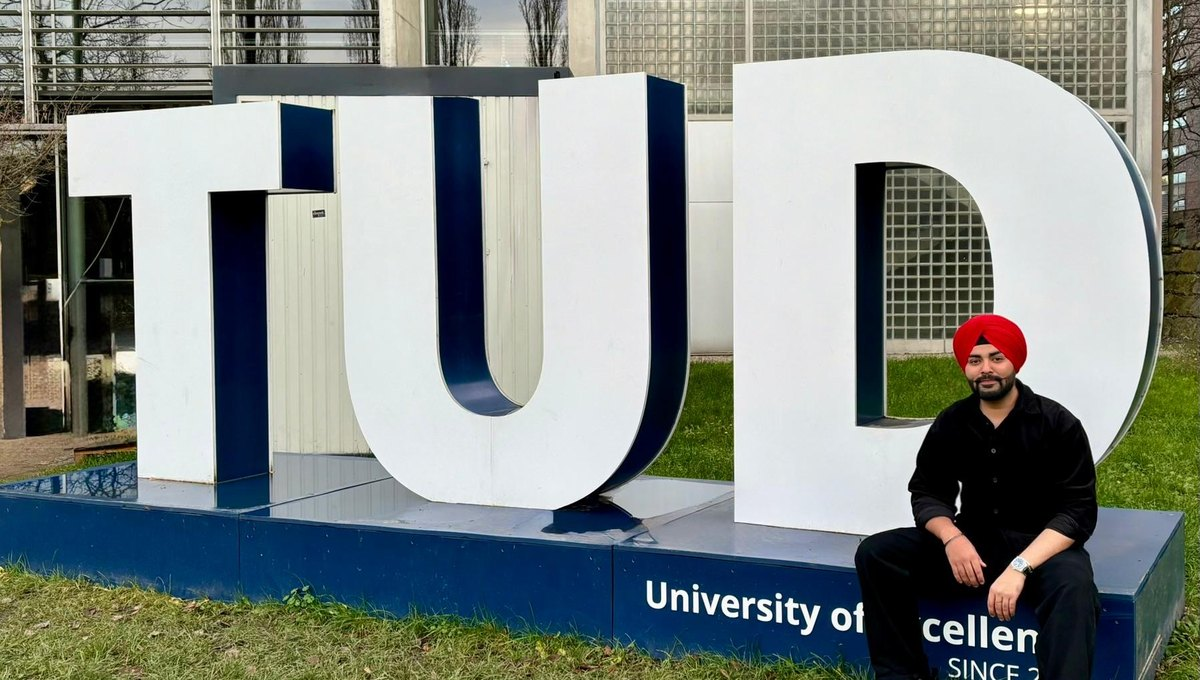
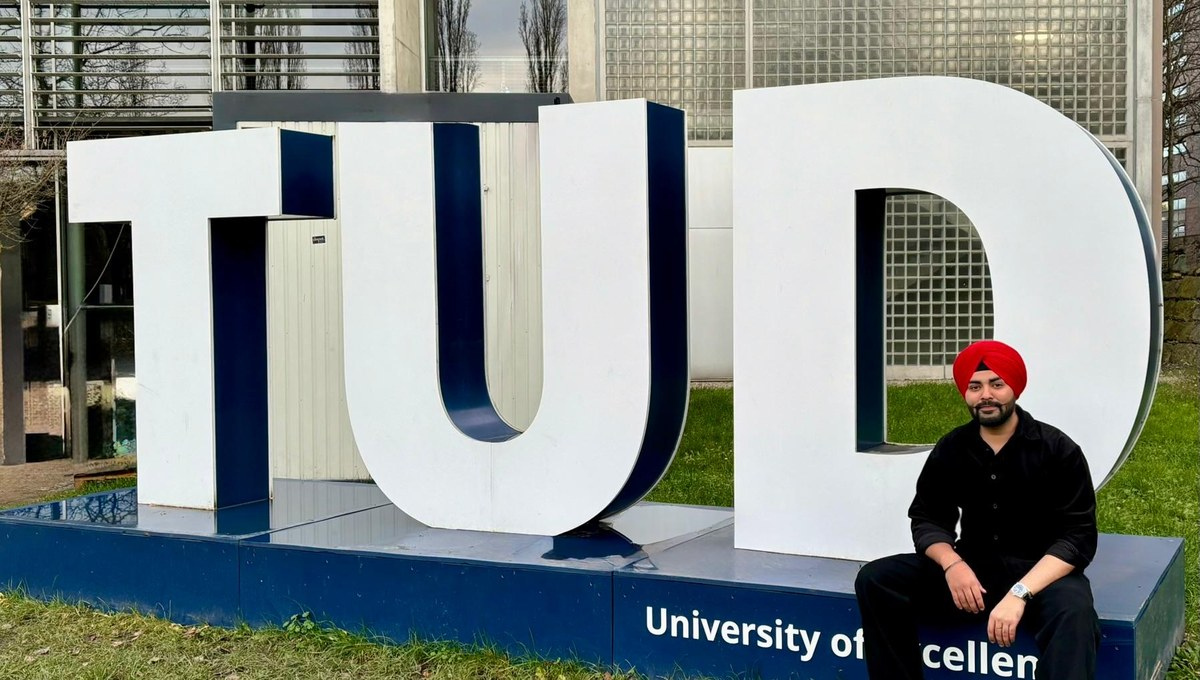
Improve portfolio hover image framing

diff --git a/index.html b/index.html
@@ -10,7 +10,7 @@
     <meta name="theme-color" content="#11100f" />
     <title>Amandeep Singh - Software Developer</title>
     <link rel="preload" as="image" href="assets/amandeep-singh-portrait.png" />
-    <link rel="stylesheet" href="styles.css?v=17" />
+    <link rel="stylesheet" href="styles.css?v=18" />
   </head>
   <body>
     <div class="cursor-glow" aria-hidden="true"></div>
@@ -101,7 +101,7 @@
           <div class="info-chip" tabindex="0" role="button" aria-label="Show skills">
             Skills
             <article class="reveal-panel wide-panel">
-              <img class="panel-photo" src="assets/hover-desk.jpg" alt="Desk setup for software work" />
+              <img class="panel-photo" src="assets/hover-skills.jpg" alt="Abstract software skills diagram" />
               <h2>Skills</h2>
               <p>
                 Software development, Python, C/C++, Linux, Bash, Git, CI/CD, FastAPI,
@@ -125,6 +125,6 @@
       </section>
     </main>
 
-    <script src="script.js?v=4"></script>
+    <script src="script.js?v=5"></script>
   </body>
 </html>

diff --git a/styles.css b/styles.css
@@ -376,11 +376,12 @@ h1 span {
 
 .panel-photo {
   width: 100%;
-  height: 150px;
+  aspect-ratio: 16 / 9;
+  height: auto;
   margin: 0 0 14px;
   border: 1px solid rgba(248, 245, 239, 0.1);
   border-radius: 14px;
-  object-fit: cover;
+  object-fit: contain;
   object-position: center;
   box-shadow: inset 0 0 0 1px rgba(255, 255, 255, 0.02);
 }
@@ -388,7 +389,6 @@ h1 span {
 .project-panel .panel-photo,
 .wide-panel .panel-photo {
   flex-basis: 100%;
-  height: 170px;
 }
 
 .reveal-panel p {
@@ -555,7 +555,7 @@ h1 span {
   }
 
   .panel-photo {
-    height: 120px;
+    max-height: 34svh;
   }
 }
 
